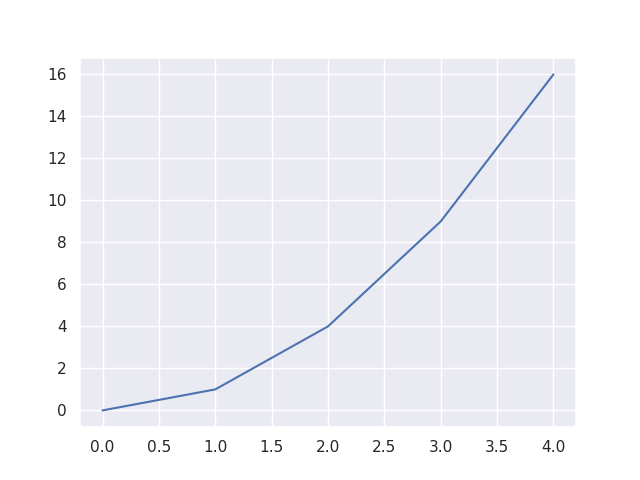
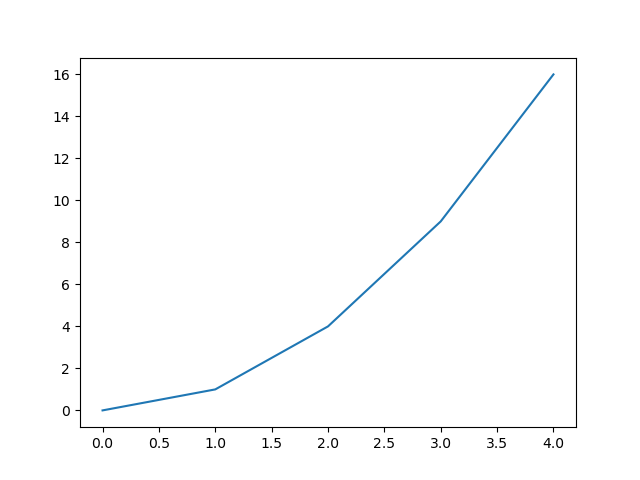
Simplify

diff --git a/docs/day3/seaborn/what_is_seaborn.py b/docs/day3/seaborn/what_is_seaborn.py
@@ -5,7 +5,7 @@
 import seaborn as sns
 
 y = [0, 1, 4, 9, 16]
-sns.set_theme()
+# sns.set_theme()
 
 
 # sns.lineplot(x = range(len(y)), y = y).figure.show()

diff --git a/docs/day3/seaborn/README.md b/docs/day3/seaborn/README.md
@@ -25,9 +25,7 @@ At the end of this sessions, learners ...
 
 ```python
 import seaborn as sns
-
 y = [0, 1, 4, 9, 16]
-sns.set_theme()
 sns.lineplot(x = range(len(y)), y = y).figure.show()
 ```
 
